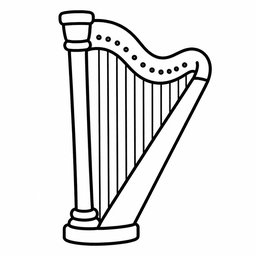
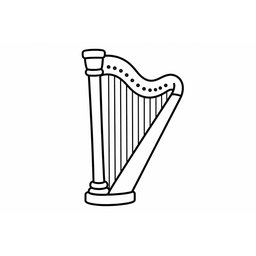
Fix instrument images cropped on sides
Use letterbox (contain) instead of center-crop when converting to 256px.
Regenerate wide instruments with margin-aware prompts. Add flex img
min-width fix and inner padding on category spell figure.

diff --git a/css/app.css b/css/app.css
@@ -196,8 +196,12 @@
       max-height: 100%;
       width: auto;
       height: auto;
+      min-width: 0;
+      min-height: 0;
       object-fit: contain;
+      object-position: center;
       display: block;
+      flex-shrink: 1;
     }
     /* 拼写、首字母：主图区域较扁（沿用） */
     .figure.figure--short {
@@ -693,6 +697,8 @@
       margin-inline: auto;
       height: auto;
       min-height: 0;
+      padding: 0.65rem;
+      box-sizing: border-box;
     }
     .category-spell-emoji {
       font-size: 5rem;

diff --git a/tools/convert_images_to_jpg.py b/tools/convert_images_to_jpg.py
@@ -1,4 +1,4 @@
-"""Convert all PNGs under images/ to 256x256 JPEG (cover crop, white background)."""
+"""Convert all PNGs under images/ to 256x256 JPEG (letterbox fit, white background)."""
 from __future__ import annotations
 
 import sys
@@ -23,13 +23,23 @@ def to_rgb_white_bg(im: Image.Image) -> Image.Image:
     return im
 
 
+def letterbox(im: Image.Image, size: tuple[int, int] = SIZE, fill: tuple[int, int, int] = (255, 255, 255)) -> Image.Image:
+    """Scale to fit inside size without cropping (preserve full illustration)."""
+    rgb = to_rgb_white_bg(im)
+    boxed = ImageOps.contain(rgb, size, method=Image.Resampling.LANCZOS)
+    out = Image.new("RGB", size, fill)
+    x = (size[0] - boxed.width) // 2
+    y = (size[1] - boxed.height) // 2
+    out.paste(boxed, (x, y))
+    return out
+
+
 def convert_one(png_path: Path) -> Path | None:
     jpg_path = png_path.with_suffix(".jpg")
     try:
         with Image.open(png_path) as im:
             im = im.copy()
-        rgb = to_rgb_white_bg(im)
-        out = ImageOps.fit(rgb, SIZE, method=Image.Resampling.LANCZOS)
+        out = letterbox(im)
         out.save(jpg_path, **JPEG_KW)
     except OSError as e:
         print(f"FAIL {png_path}: {e}", file=sys.stderr)
